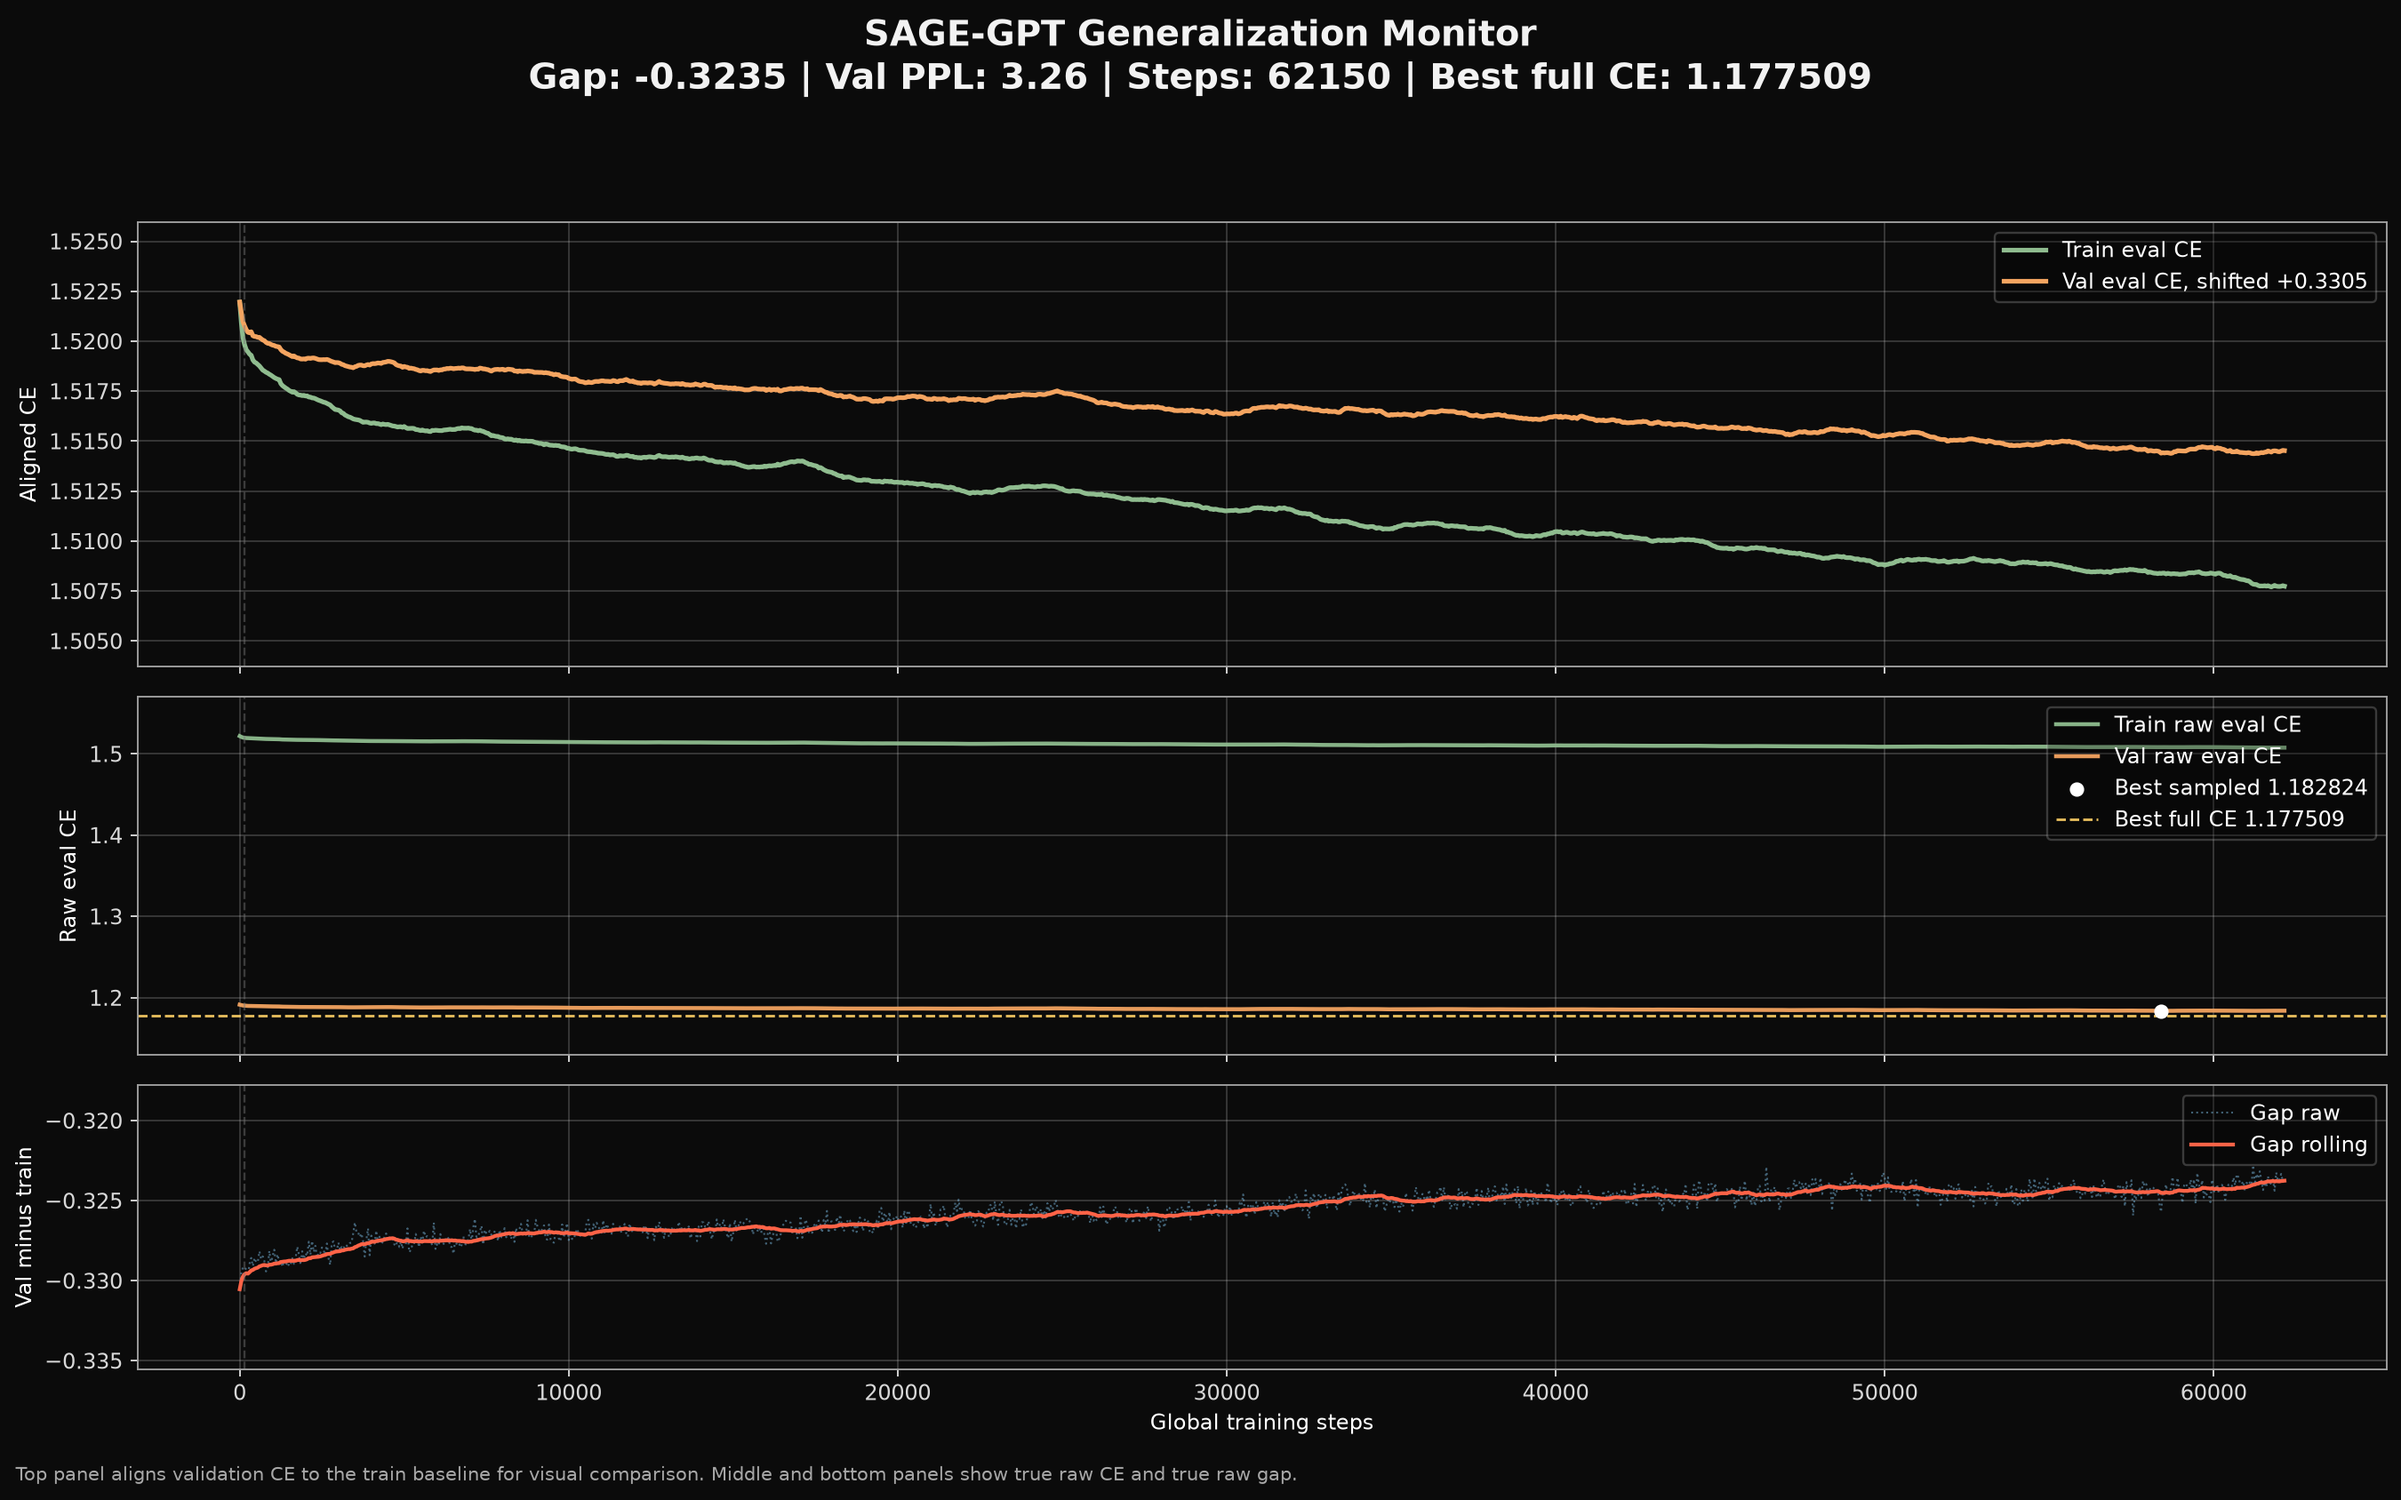
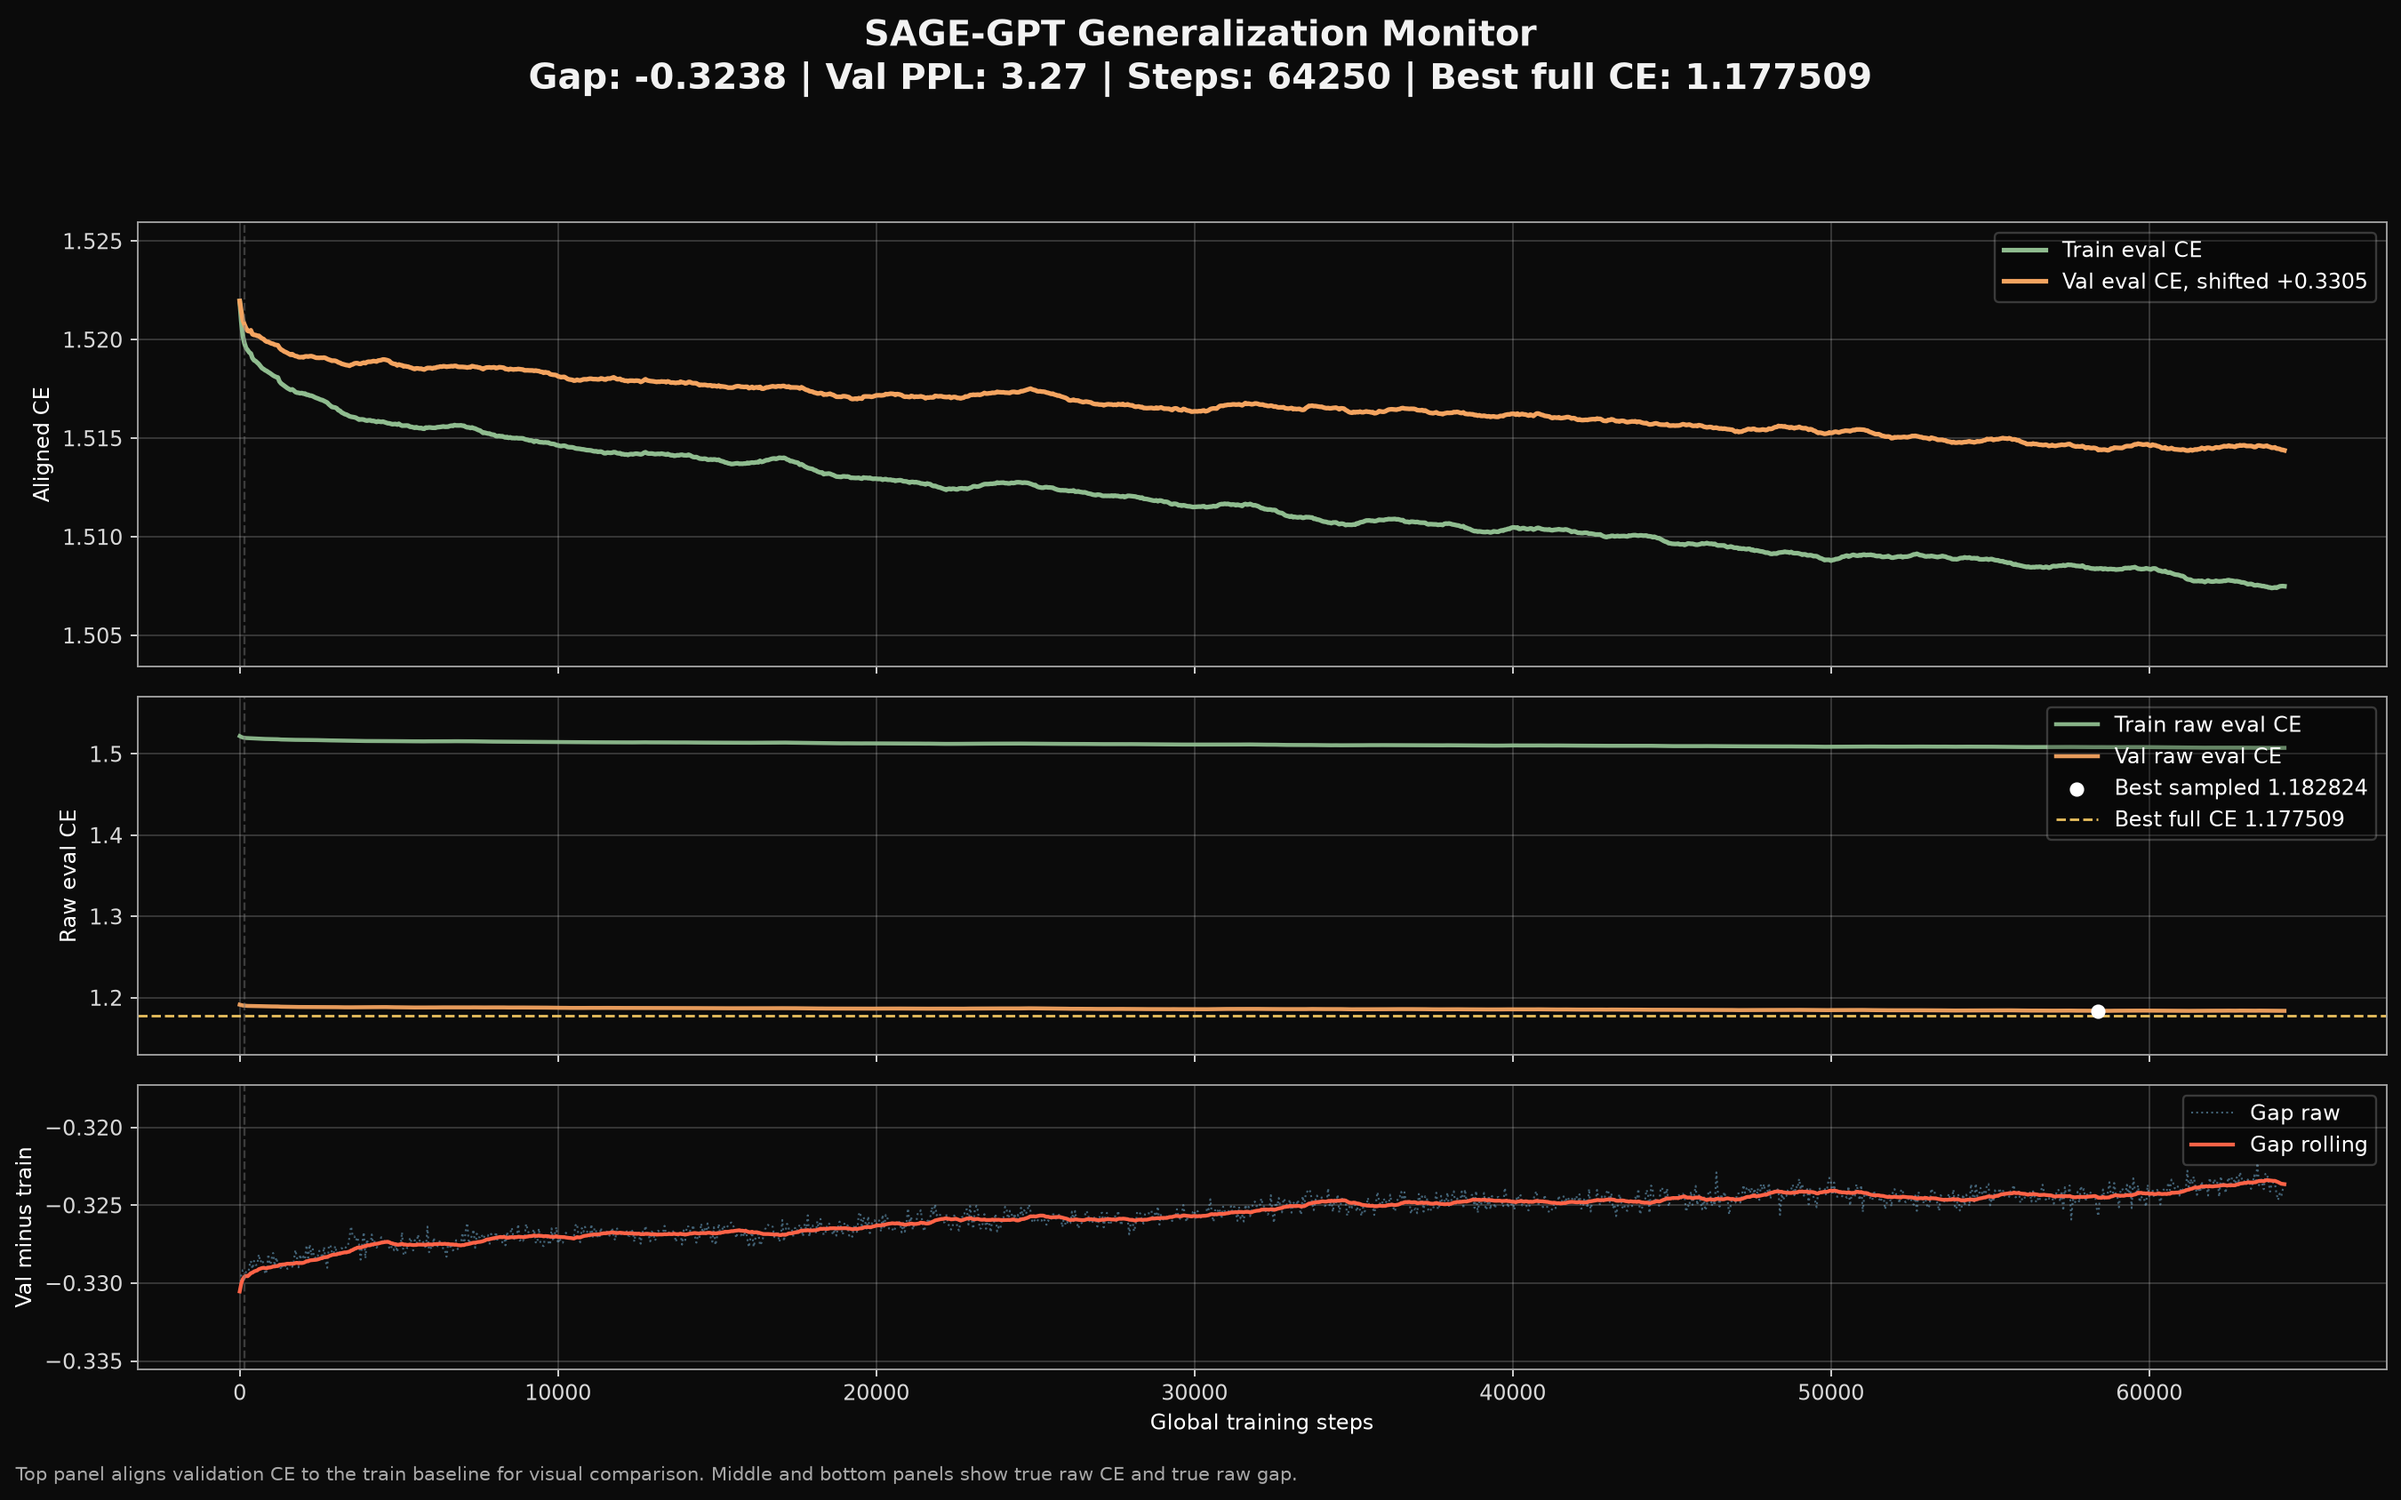
docs: refresh final evaluation evidence

diff --git a/README.md b/README.md
@@ -2,14 +2,14 @@
 
 > *"To find the Sutra in the Signal."*
 
-**Sage-GPT** is a Sanskrit-only Small Language Model (SLM) trained **from scratch** on a specialised corpus of **~140M Sanskrit tokens**. It is not a fine-tuned version of an existing LLM. It is built ground-up for one language and one domain: classical and Vedic Sanskrit literature.
+**Sage-GPT** is a Sanskrit-only Small Language Model (SLM) trained **from scratch** on a specialised Sanskrit corpus. The active tokenized training stream is a 139 MB binary containing **72.8M SentencePiece model-token IDs**, split into **69.2M training tokens** and **3.6M validation tokens**. It is not a fine-tuned version of an existing LLM.
 
 The goal is not to compete with large general-purpose LLMs. The goal is to test whether a compact, carefully trained model can learn Sanskrit-specific structure, including morphology, sandhi patterns, verse-like continuation, and domain vocabulary, from a focused Sanskrit corpus.
 
 ![Python](https://img.shields.io/badge/python-3.10%2B-blue?logo=python&logoColor=white)
 ![Model](https://img.shields.io/badge/model-7.2M%20SLM-purple)
 ![Training](https://img.shields.io/badge/training-from%20scratch-orange)
-![Dataset](https://img.shields.io/badge/data-140M%20Sanskrit%20tokens-blue)
+![Dataset](https://img.shields.io/badge/data-72.8M%20model%20tokens-blue)
 ![Hardware](https://img.shields.io/badge/hardware-NVIDIA%20DGX%20Spark-brightgreen?logo=nvidia&logoColor=white)
 ![Context](https://img.shields.io/badge/context-1024-lightgrey)
 
@@ -42,7 +42,7 @@ A compact decoder-only Transformer, sized for repeated experimentation on a home
 
 The purification stage transforms raw Sanskrit source material into a cleaner training corpus. The pipeline is designed to reduce OCR noise, obvious vernacular contamination, malformed Unicode, and non-Sanskrit fragments while preserving Devanagari structure and Vedic markers where possible.
 
-This is a strict filtering pipeline, but it should not be interpreted as a formal guarantee of zero contamination. Corpus quality is continuously audited and improved.
+This is a conservative filtering pipeline, but it should not be interpreted as a formal guarantee of zero contamination. Corpus quality is continuously audited and improved.
 
 Main features:
 
@@ -71,7 +71,7 @@ uv run python3 1-data/05-scripts/refine_corpus.py
 
 ### Step 3 - Sutra Tokenization
 
-Trains a SentencePiece Unigram tokenizer with an 8,192 token vocabulary on the Sanskrit corpus.
+Trains a SentencePiece Unigram tokenizer with an 8,192 token vocabulary and writes `1-data/03-tokenized/corpus.bin`. The current binary is 139 MB and contains 72.8M `uint16` SentencePiece token IDs.
 
 ```bash
 uv run python3 2-tokenizer/sutra_tokenizer.py
@@ -113,6 +113,8 @@ This recipe is designed for continuing from the best checkpoint with a fresh opt
 | **Batch Size** | 256 global / 64 micro | 4-step gradient accumulation |
 | **Training Duration** | Indefinite, `MAX_STEPS = None` | Ctrl+C triggers emergency save and clean exit |
 | **Thermal Guard** | Pause at 75°C | DGX Spark thermal safety |
+
+Current loaded split: **69.2M train tokens** and **3.6M validation tokens**.
 
 ### Training Signal Strategy
 
